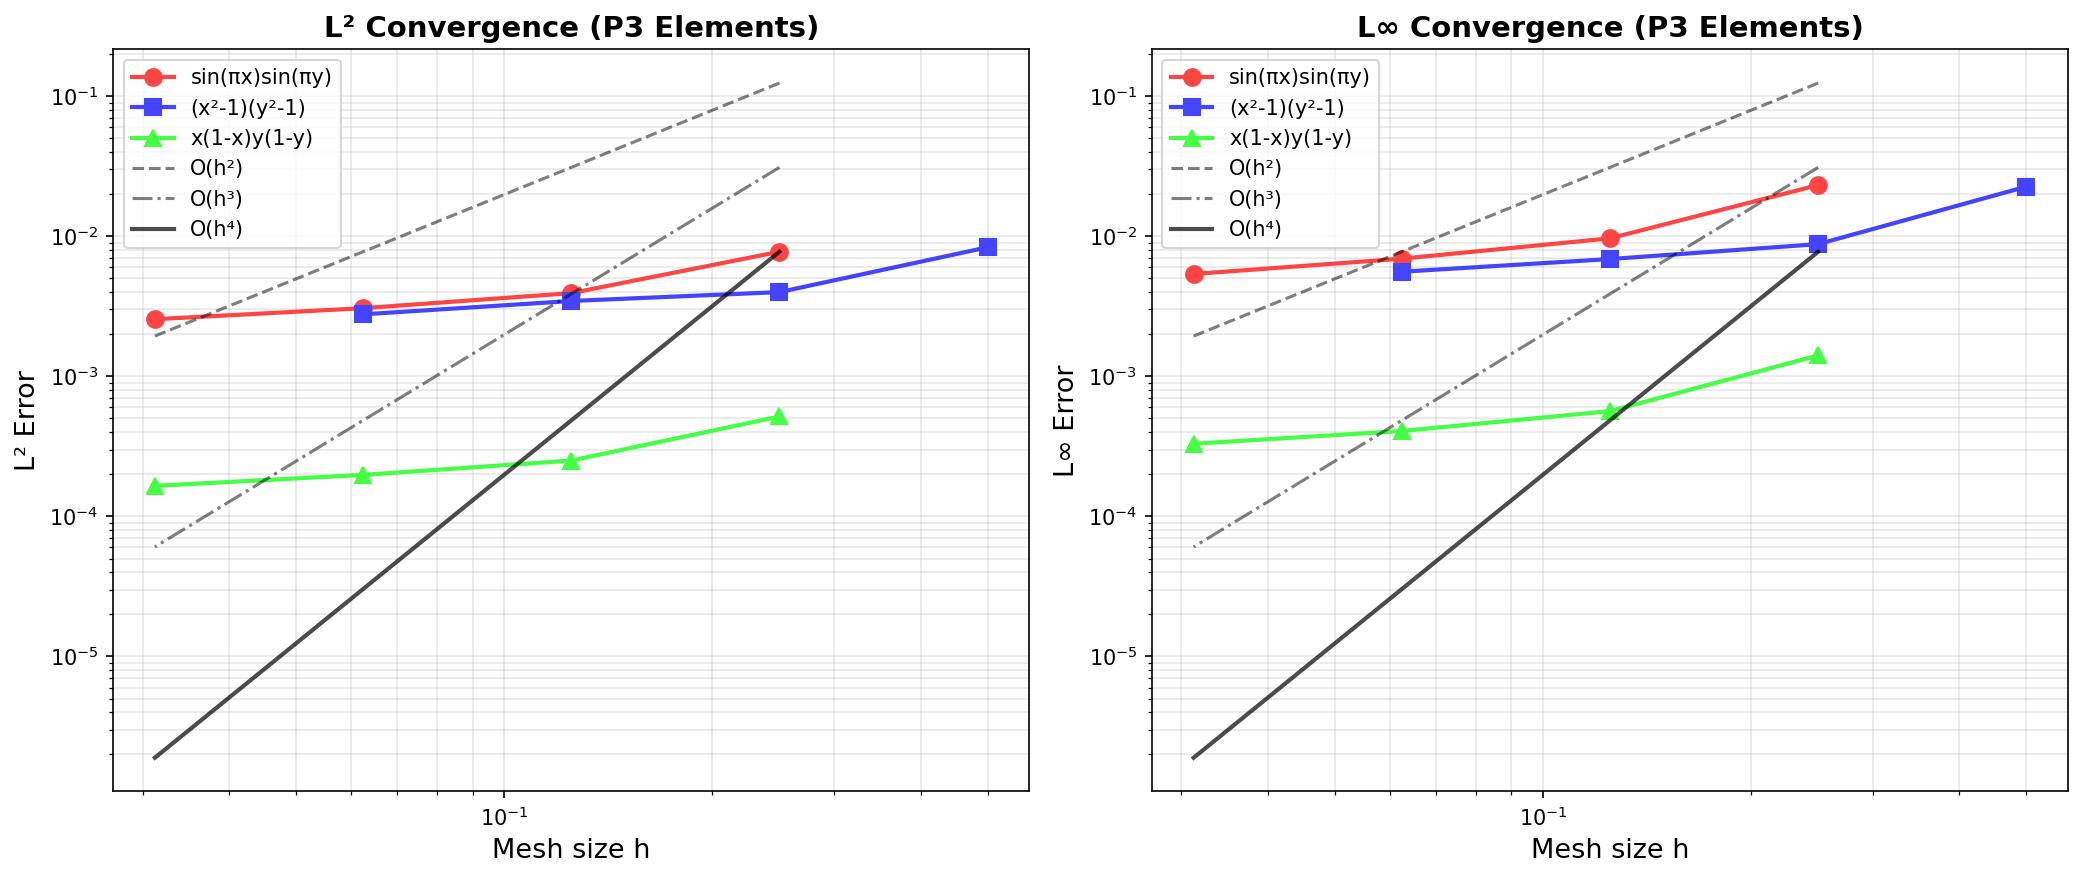
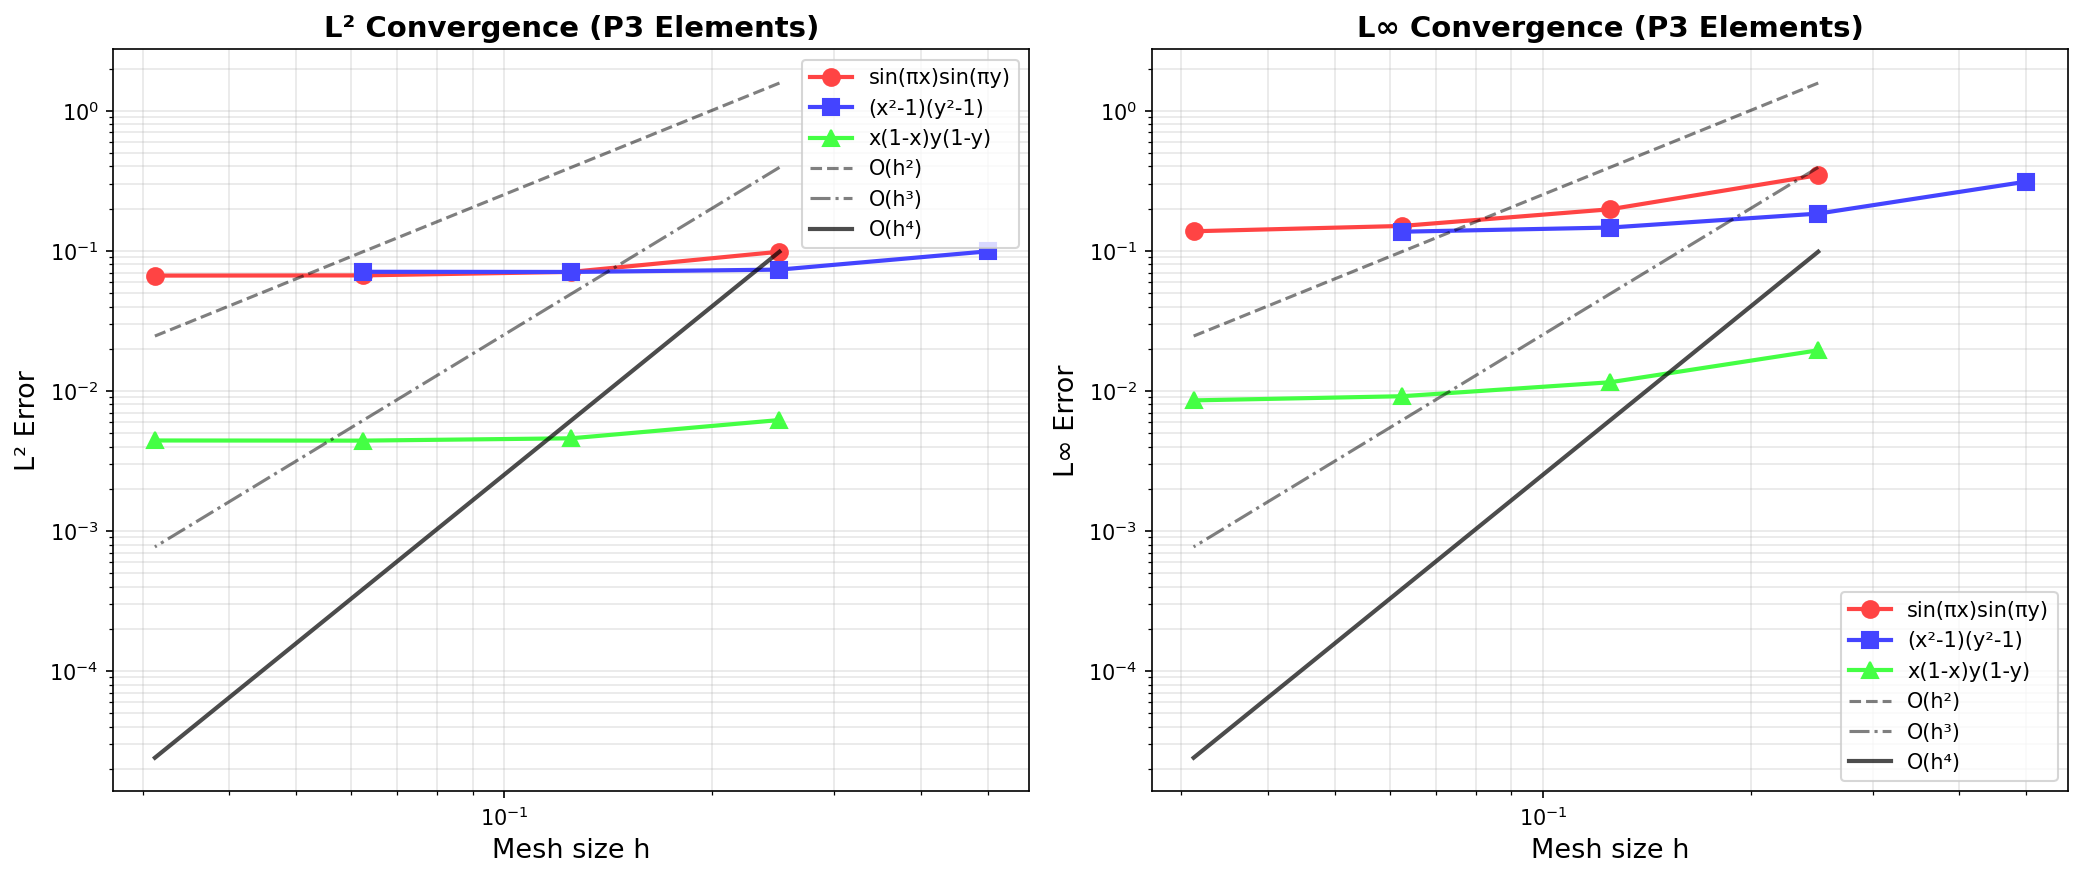
weak lensing work for P3

diff --git a/weak_lensing_poisson/src/p3_assembly.py b/weak_lensing_poisson/src/p3_assembly.py
@@ -100,38 +100,47 @@ def get_gauss_quadrature_triangle(order: int = 4):
         weights = jnp.array([w1, w2, w2, w2, w3, w3, w3])
         
     elif order == 5:
-        # 13-point rule (degree 7 exact) - CRITICAL FOR P3 ISOPARAMETRIC!
-        # Reference: Dunavant (1985)
-        a1 = 0.0651301029022
-        a2 = 0.8697397941956
-        
-        b1 = 0.3128654960049
-        b2 = 0.6384441885698
-        
-        c1 = 0.2603459660790
-        c2 = 0.4793080678419
-        
-        w1 = -0.1495700444677
-        w2 = 0.1756152574332
-        w3 = 0.0533472356088
-        w4 = 0.0771137608903
-        
+        # Dunavant degree-7 rule (13 points)
+    
+        a = 0.065130102902216
+        b = 0.312865496004875
+        c = 0.260345966079040
+        d = 0.479308067841920
+    
+        w0 = -0.149570044467670
+        w1 =  0.175615257433208
+        w2 =  0.053347235608839
+        w3 =  0.077113760890257
+    
         points = jnp.array([
-            [1/3, 1/3],           # Center
-            [a1, a1],             # Near vertex 0
-            [a2, a1],             # Near vertex 1  
-            [a1, a2],             # Near vertex 2
-            [b1, b1],             # Interior point set 1
-            [b2, b1],
-            [b1, b2],
-            [c1, c1],             # Interior point set 2
-            [c2, c1],
-            [c1, c2],
-            [c2, c2],             # Additional interior points
-            [c1, c2],
-            [c2, c1]
+            # centroid
+            [1/3, 1/3],
+    
+            # a-set
+            [a, a],
+            [1-2*a, a],
+            [a, 1-2*a],
+    
+            # b-set
+            [b, b],
+            [1-2*b, b],
+            [b, 1-2*b],
+    
+            # c,d set (6 permutations)
+            [c, d],
+            [d, c],
+            [c, 1-c-d],
+            [1-c-d, c],
+            [d, 1-c-d],
+            [1-c-d, d],
         ])
-        weights = jnp.array([w1, w2, w2, w2, w3, w3, w3, w4, w4, w4, w4, w4, w4])
+    
+        weights = jnp.array([
+            w0,
+            w1, w1, w1,
+            w2, w2, w2,
+            w3, w3, w3, w3, w3, w3
+        ])
         
     else:
         raise ValueError(f"Quadrature order {order} not implemented")
@@ -150,30 +159,17 @@ def compute_element_stiffness_p3(coords: jnp.ndarray,
     """
     Compute 10×10 element stiffness matrix for P3 element
     
-    Uses SUBPARAMETRIC formulation:
-    - P1 (linear) geometry mapping from 3 vertices → constant Jacobian
-    - P3 (cubic) solution interpolation with 10 nodes
-    
     Ke[i,j] = ∫_T ∇Nᵢ · ∇Nⱼ dA
     
-    Args:
-        coords: (10, 2) node coordinates for this element
-        quad_points: (nq, 2) quadrature points in reference coords
-        quad_weights: (nq,) quadrature weights
-        
-    Returns:
-        Ke: (10, 10) element stiffness matrix
+    CRITICAL: Dunavant weights sum to 1.0, so integral = (detJ/2) * Σ wᵢ f(ξᵢ)
     """
     nq = len(quad_weights)
     Ke = jnp.zeros((10, 10))
     
     # SUBPARAMETRIC: Use only 3 vertex nodes for geometry
-    vertex_coords = coords[:3, :]  # (3, 2) - vertices only
+    vertex_coords = coords[:3, :]  # (3, 2)
     
     # Compute P1 geometry Jacobian (constant over element)
-    # For reference triangle (0,0), (1,0), (0,1) → physical (x0,y0), (x1,y1), (x2,y2)
-    # Jacobian J = [[∂x/∂ξ, ∂y/∂ξ], [∂x/∂η, ∂y/∂η]]
-    #            = [[x1-x0, y1-y0], [x2-x0, y2-y0]]
     x0, y0 = vertex_coords[0]
     x1, y1 = vertex_coords[1]
     x2, y2 = vertex_coords[2]
@@ -183,6 +179,9 @@ def compute_element_stiffness_p3(coords: jnp.ndarray,
     detJ = jnp.linalg.det(J)
     J_inv = jnp.linalg.inv(J)
     
+    # Physical element area (for quadrature with weights summing to 1.0)
+    area_factor = jnp.abs(detJ) / 2.0
+    
     # Loop over quadrature points
     for q in range(nq):
         xi, eta = quad_points[q]
@@ -191,14 +190,14 @@ def compute_element_stiffness_p3(coords: jnp.ndarray,
         # Get P3 shape function gradients in reference coordinates
         dN_dxi = compute_p3_shape_gradients_reference(xi, eta)  # (10, 2)
         
-        # Transform to physical coordinates using P1 Jacobian
-        dN_dxy = dN_dxi @ J_inv.T  # (10, 2) @ (2, 2) = (10, 2)
+        # Transform to physical coordinates
+        dN_dxy = dN_dxi @ J_inv.T  # (10, 2)
         
-        # Stiffness contribution (detJ is constant, can factor out)
+        # Stiffness contribution with CORRECT area factor
         for i in range(10):
             for j in range(10):
                 Ke = Ke.at[i, j].add(
-                    w * detJ * jnp.dot(dN_dxy[i], dN_dxy[j])
+                    w * area_factor * jnp.dot(dN_dxy[i], dN_dxy[j])
                 )
     
     return Ke
@@ -212,18 +211,9 @@ def compute_element_load_p3(coords: jnp.ndarray,
     """
     Compute 10×1 element load vector for P3 element
     
-    Uses SUBPARAMETRIC formulation (P1 geometry, P3 solution)
+    Fe[i] = -2 ∫_T Nᵢ κ dA
     
-    Fe[i] = -2 ∫_T Nᵢ κ dA   (negative from weak form, 2 from ∇²ψ = 2κ)
-    
-    Args:
-        coords: (10, 2) node coordinates
-        source_values: (10,) source κ evaluated at element nodes
-        quad_points: (nq, 2) quadrature points
-        quad_weights: (nq,) quadrature weights
-        
-    Returns:
-        Fe: (10,) element load vector
+    CRITICAL: Dunavant weights sum to 1.0, so integral = (detJ/2) * Σ wᵢ f(ξᵢ)
     """
     nq = len(quad_weights)
     Fe = jnp.zeros(10)
@@ -240,6 +230,9 @@ def compute_element_load_p3(coords: jnp.ndarray,
                    [x2 - x0, y2 - y0]])
     detJ = jnp.linalg.det(J)
     
+    # Physical element area
+    area_factor = jnp.abs(detJ) / 2.0
+    
     for q in range(nq):
         xi, eta = quad_points[q]
         w = quad_weights[q]
@@ -250,10 +243,8 @@ def compute_element_load_p3(coords: jnp.ndarray,
         # Source term at quadrature point (interpolated from nodes)
         kappa_q = jnp.dot(N, source_values)
         
-        # Load contribution from weak form: -∫∇ψ·∇v = ∫2κv
-        # This gives: -Kψ = F where F = ∫2κN
-        # Solver computes: Kψ = F_input, so we need F_input = -∫2κN
-        Fe += -2.0 * w * detJ * N * kappa_q
+        # Load contribution with CORRECT area factor
+        Fe += -2.0 * w * area_factor * N * kappa_q
     
     return Fe
 
@@ -285,7 +276,7 @@ def assemble_system_p3(mesh, kappa_values, use_jax: bool = False):
     # Get quadrature rule (7-point, order 4, exact for degree 5)
     # For SUBPARAMETRIC P3: Jacobian is constant, gradients are degree 2
     # Product ∇Ni·∇Nj is degree 4, so order 4 quadrature is sufficient
-    quad_points, quad_weights = get_gauss_quadrature_triangle(order=4)
+    quad_points, quad_weights = get_gauss_quadrature_triangle(order=5)
     
     # Preallocate sparse matrix storage (COO format)
     # Each element contributes 10×10 = 100 entries
@@ -378,7 +369,7 @@ def apply_boundary_conditions_p3(K, F, mesh):
     K_bc = K.tolil()  # Convert to LIL for efficient modification
     F_bc = F.copy()
     
-    penalty = 1e10
+    penalty = 1e8
     
     for node in boundary:
         K_bc[node, :] = 0
